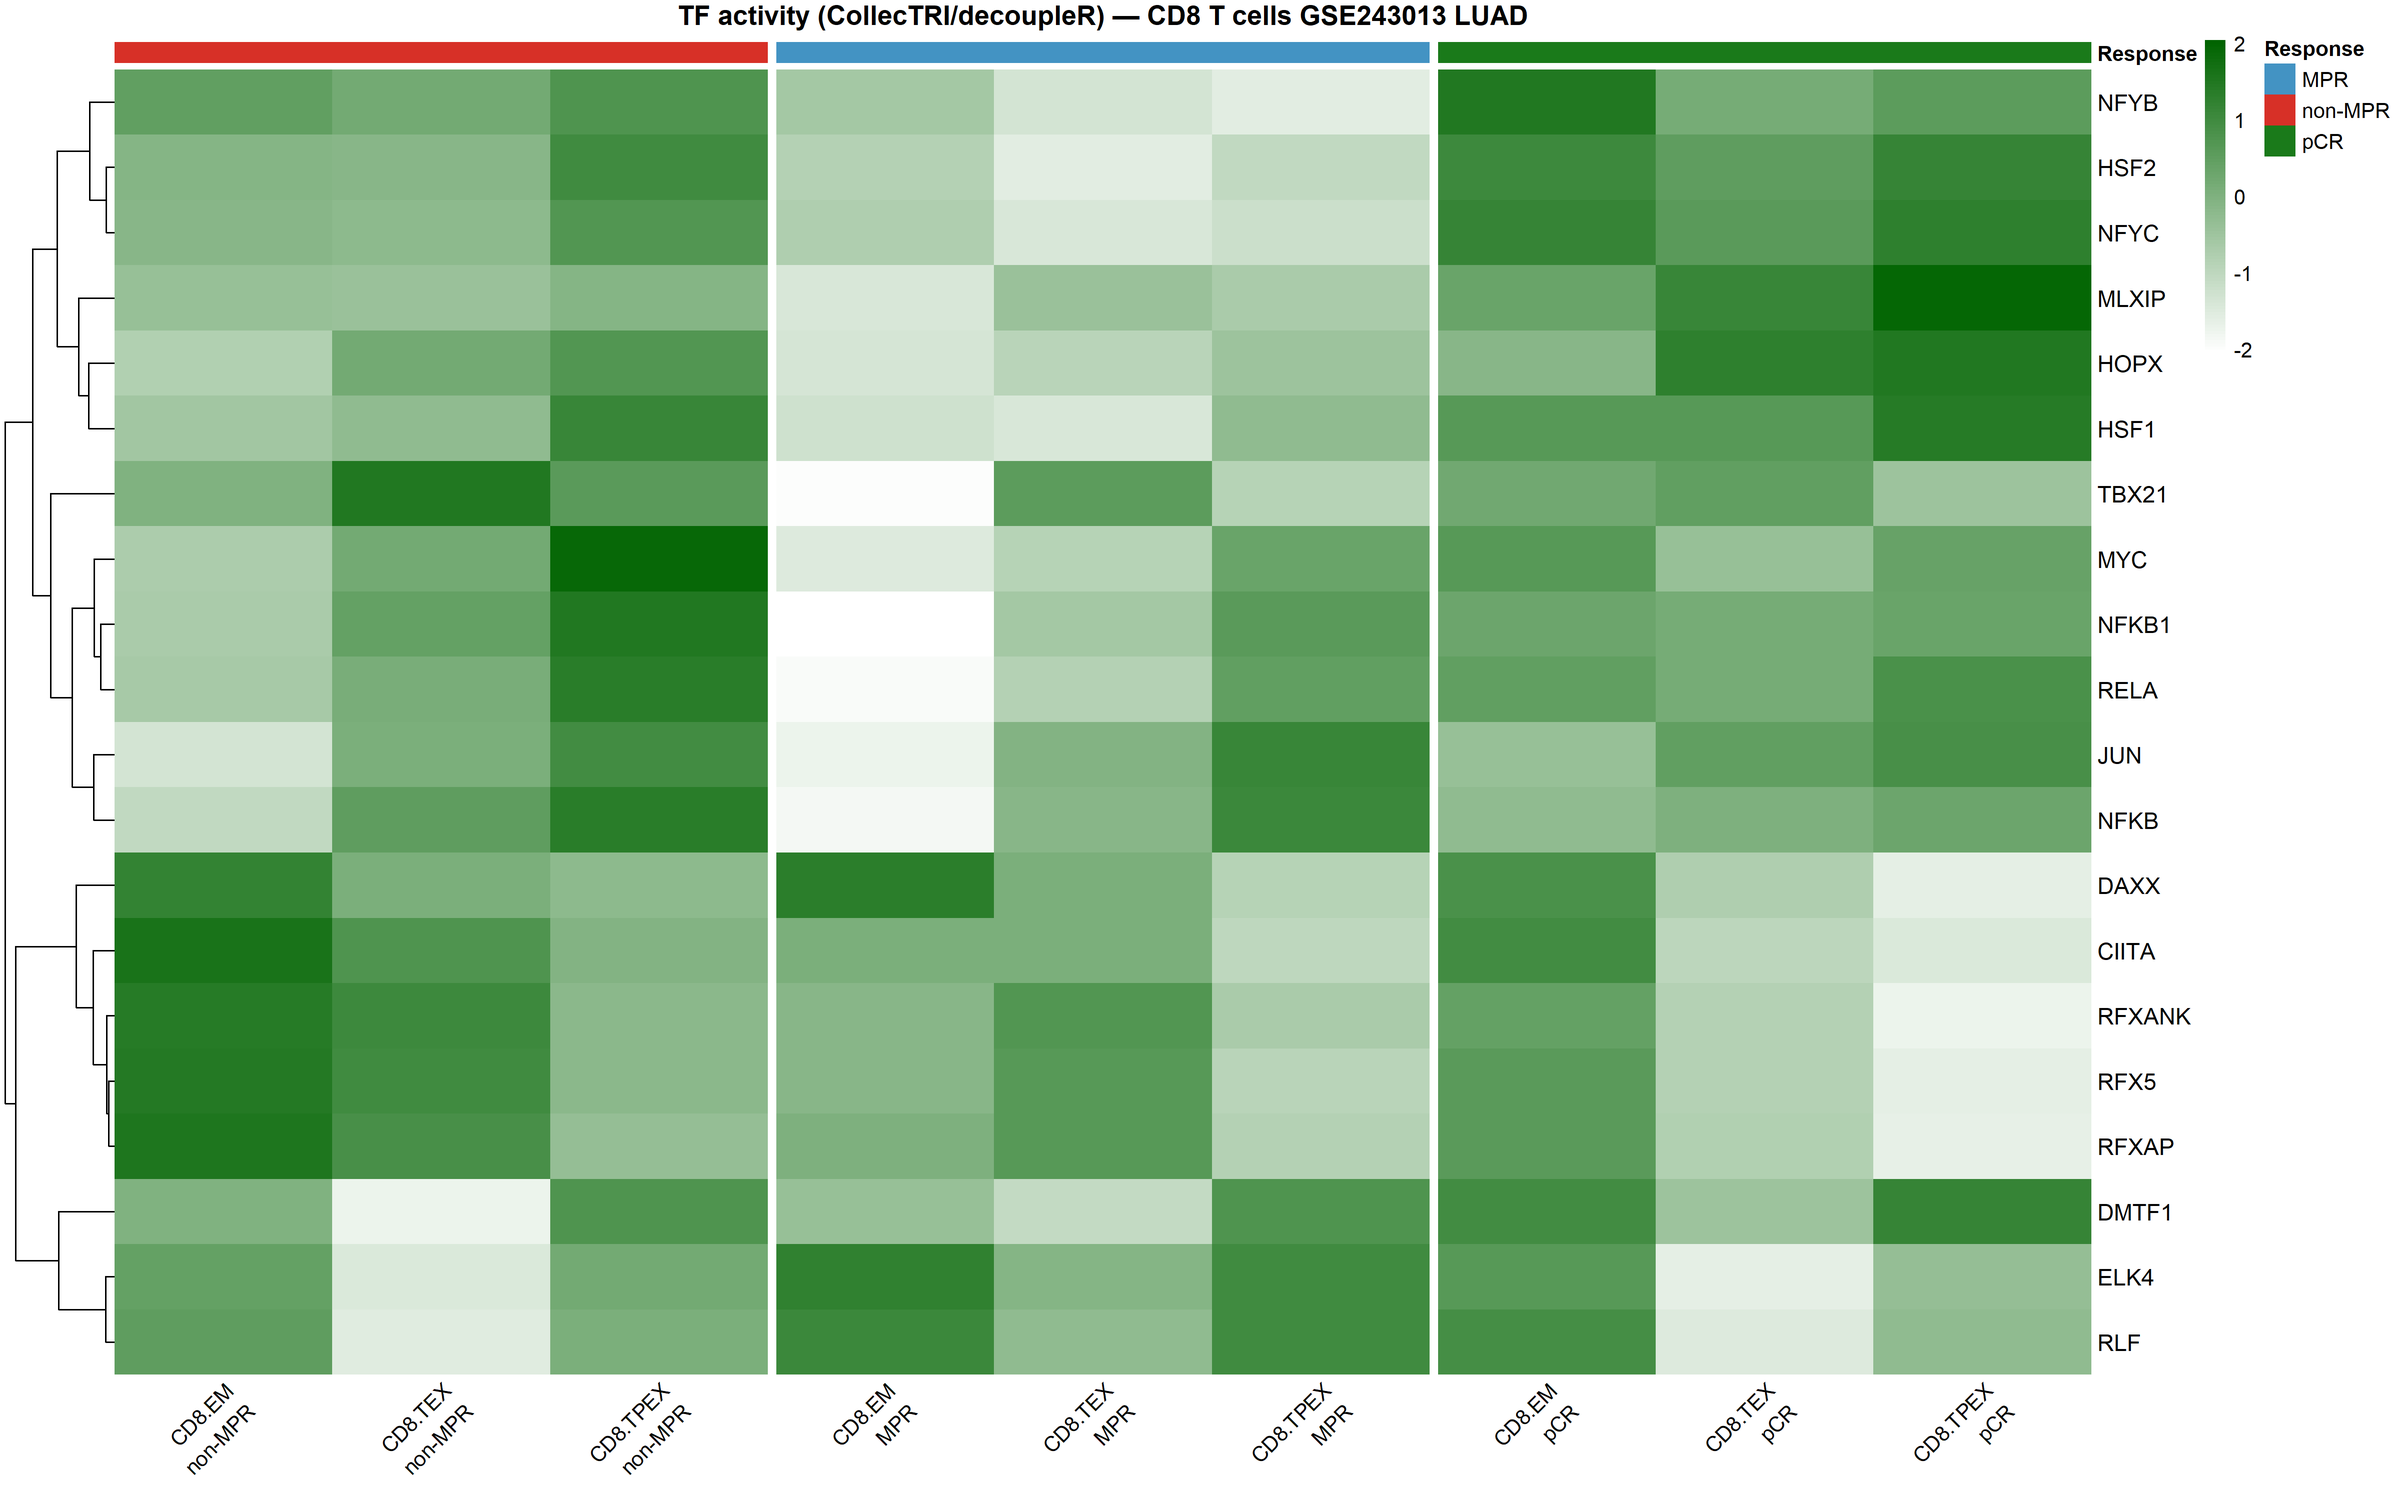
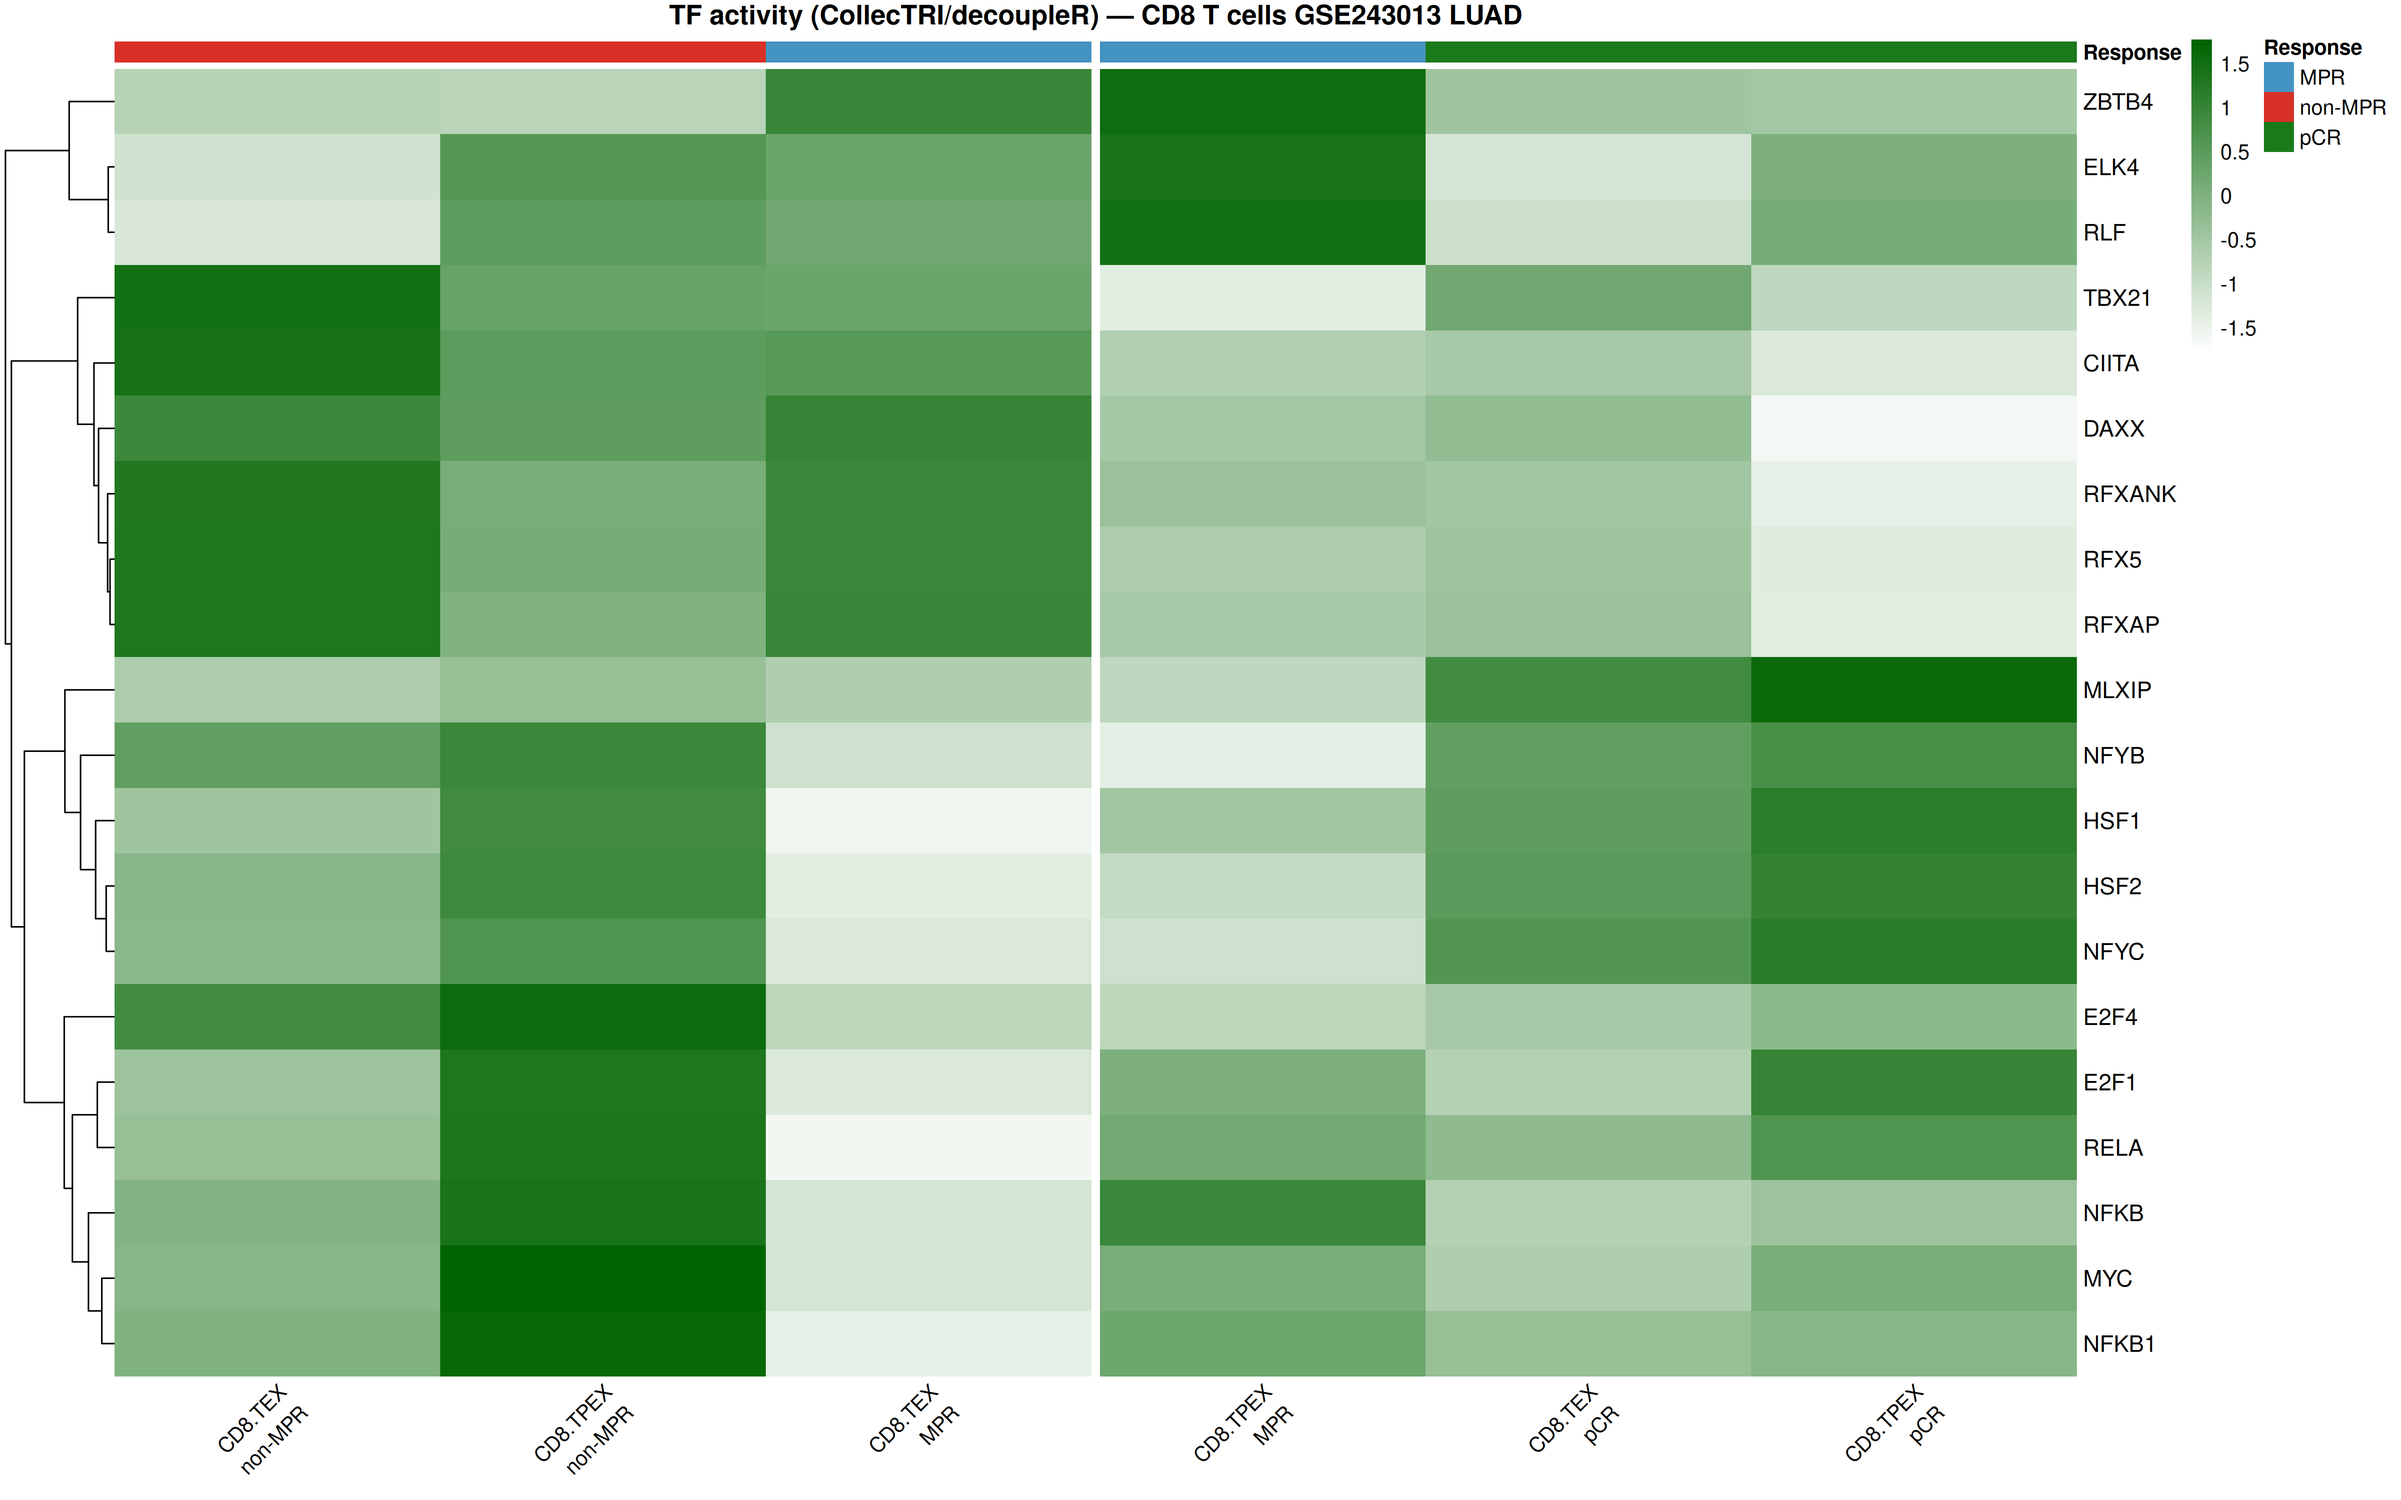
Refine TAMs GSE207422 CollecTRI preliminary observations + figures + readme update

diff --git a/README.md b/README.md
@@ -958,45 +958,44 @@ not artifact
 - TAM signatures alone insufficient to separate MPR from pCR
 - Integration of CD8 + TAM signatures required planned via CellChat/NicheNet
 
-## Preliminary observations : CollecTRI TAMs (Bloc 4)
+## Preliminary observations : CollecTRI TAMs (Bloc 4-GSE3013)
+
+
+
+## Preliminary observations : CollecTRI TAMs (Bloc 4-GSE207422)
 
 **Two complementary visualizations:**
 - **Violin plots (Top 6 by variance, absolute scores)** : global MPR vs non-MPR comparison
 - **Heatmaps (scale=row, Top 20 by variance)** , subtype-specific TF patterns per condition
 
-**Violin plots , cross-dataset consensus (objective Top 6):**
-- MHC II program (RFXAP/RFXANK/RFX5/CIITA) enriched responders both datasets 
-- HSF1 enriched non-responders both datasets : chronic stress program
-- RELA/REL similar between groups — NMPR wider distribution (inter-patient heterogeneity)
+CollecTRI Top 6 TFs violins GSE207422 TAMs :
+- RFXAP/RFXANK/RFX5/CIITA : enriched MPR globally with MHC II program more active across TAM compartment in responders
+- RELA/REL : non-discriminant, NF-KB constitutive in both conditions
 
-**Heatmap observations , subtype-specific patterns:**
+**MPR :**
 
-GSE243013 :
-- Resident M2 MPR : ELK4 dominant : pro-immunogenic signal 
-- Resident M2 non-MPR : HIF1A, NFKB : hypoxic/inflammatory stress
-- Resident M2 pCR : ELK4 + DMTF1
-- Monocyte FCN1+ non-MPR : HIF1A dominant : hypoxic adaptation
-- Stress-response non-MPR : MYC + HSF1/HSF2 : chronic proliferation 
-- Proliferating pCR : MYC very strong
-- Classical-Mono MPR : ELK4 + MHC II dominant 
-- Classical-Mono pCR : ELK4 + MHC II present but weaker
-- IFN-stimulated : STAT1 constitutive all conditions, not discriminating
+- IFN-stimulated : IRF1 strong, STAT1 moderate — dominant pro-immunogenic program (IRF1/STAT1). CIITA weak , limited MHC II antigen presentation. No residual immunosuppressive signal.
+- SPP1+ immunosuppressive : CIITA/RFX moderate = dominant MHC II program. No canonical immunosuppressive signal. Original finding : partial reprogramming toward antigen presentation in MPR.
+- Lipid-associated : MYC/HSF2 strong = active M2/stress program. Cellular survival signal under residual stress. MYC not dominant as coordinated immunosuppressive driver.
+- Stress-response : MYC/HSF1/HIF1A moderate = residual stress program. No dominant coordinated immunosuppression. Consistent with TME remodeling post-treatment.
+- Regulatory : MYC/RFX moderate, CIITA weak = mixed moderate MHC II/M2 program. Non-discriminant.
+- MRC1+ M2-like : RFX moderate, CIITA weak = moderate MHC II with weak immunosuppressive activity. Secondary subtype.
+- Resident M2 : globally weak signal, MYC/IRF1/HSF2 weak. Transcriptional quiescence in MPR.
+- M2-SIGLEC8+ : CIITA strong, RFX moderate = dominant MHC II program. Non-discriminant between conditions.
+- Monocyte-derived : 0 MPR cells because data not available.
 
-GSE207422 :
-- IFN-stimulated MPR : IRF1, STAT1, IRF5, REL, strong IFN program
-- MRC1+ M2-like MPR : MHC II dominant , consistent with GSE243013
-- SPP1+ immunosuppressive NMPR : highly active, heterogeneous : complex immunosuppressive program
-- Monocyte-derived NMPR : HIF1A dominant , consistent with GSE243013
-- Stress-response : active both conditions, constitutive
+**NMPR :**
 
-**Cross-dataset consensus (violin + heatmap combined):**
-- MHC II enriched MPR TAMs : Resident M2 GSE243013, MRC1+ M2-like GSE207422 
-- ELK4 enriched MPR Resident M2 and Classical-Mono GSE243013 : absent GSE207422
-  (possible LUAD vs NSCLC histological difference)
-- HIF1A enriched non-responder Monocyte TAMs both datasets 
-- MYC/HSF enriched non-responder Stress-response TAMs GSE243013 
-- SPP1+ immunosuppressive NMPR most transcriptionally active GSE207422 
-- IFN-stimulated STAT1 constitutive both datasets : not discriminating
+- IFN-stimulated : IRF1/STAT1 strong, IRF5 moderate — intense pro-immunogenic program. CIITA moderate without strong RFX = incomplete MHC II. STAT3/NF-KB weak = low-grade residual immunosuppressive signal. Intense but dysfunctional program.
+- Resident M2 : diffuse weak signal with no dominant program. Transcriptional quiescence in both conditions.
+- Monocyte-derived : DMTF1 strong, STAT1/STAT3 moderate — tumor suppressor active (ARF-p53). DMTF1 orients balance toward pro-inflammatory signal despite equal STAT1/STAT3 levels. NFKBIB moderate, so active NF-KB inhibition. No MYC, so no complete M2 polarization. Partial resistance to M2 differentiation.
+- MRC1+ M2-like : weak diffuse signal with MYC/HIF1A weak (M2 minimal), IRF5 weak (pro-inflammatory minimal), RFX without CIITA (non-functional MHC II). JUN whose role unassignable without phosphorylation data. Non-discriminant, no dominant program.
+- SPP1+ immunosuppressive : IRF5 strong, isolated pro-inflammatory signal. CREB1 moderate, M2 immunosuppressive driver counterbalancing IRF5. NF-KB moderate limited by NFKBIB. Mixed M1/M2 program with tension between IRF5 and CREB1 without resolution. Weak block shared between M1 and M2 residual signals. MHC II non-functional.
+- Lipid-associated : all signals weak/absent, transcriptionally silent in NMPR. Immunosuppression likely via post-transcriptional or metabolic mechanisms rather than TF-driven program.
+- Stress-response : STAT1/IRF5/NF-KB strong, IRF1/HIF1A/STAT3 moderate with intense dysregulated inflammatory program with M1 tendency. NFKBIB moderate, so partial NF-KB brake. MHC II poorly functional (CIITA/RFX weak). Consistent with macrophage stress adaptation under therapeutic pressure.
+- Regulatory : DMTF1/RFX/CIITA/HIF1A weak, so residual regulatory program. HIF1A = tumor-imposed hypoxic response. DMTF1 = residual ARF-p53 regulation attempt. RFX/CIITA = minimal MHC II antigen presentation. Low-grade survival program under TME constraints.
+- M2-SIGLEC8+ : CIITA strong, RFX moderate, dominant MHC II program identical to MPR. Mixed weak block M1/M2 without influence on dominant program. Non-discriminant between conditions, so excluded from communication short-list.
+
 
 ## Preliminary observations : Epithelial compartment CNV (Bloc 4B, GSE207422)
 
